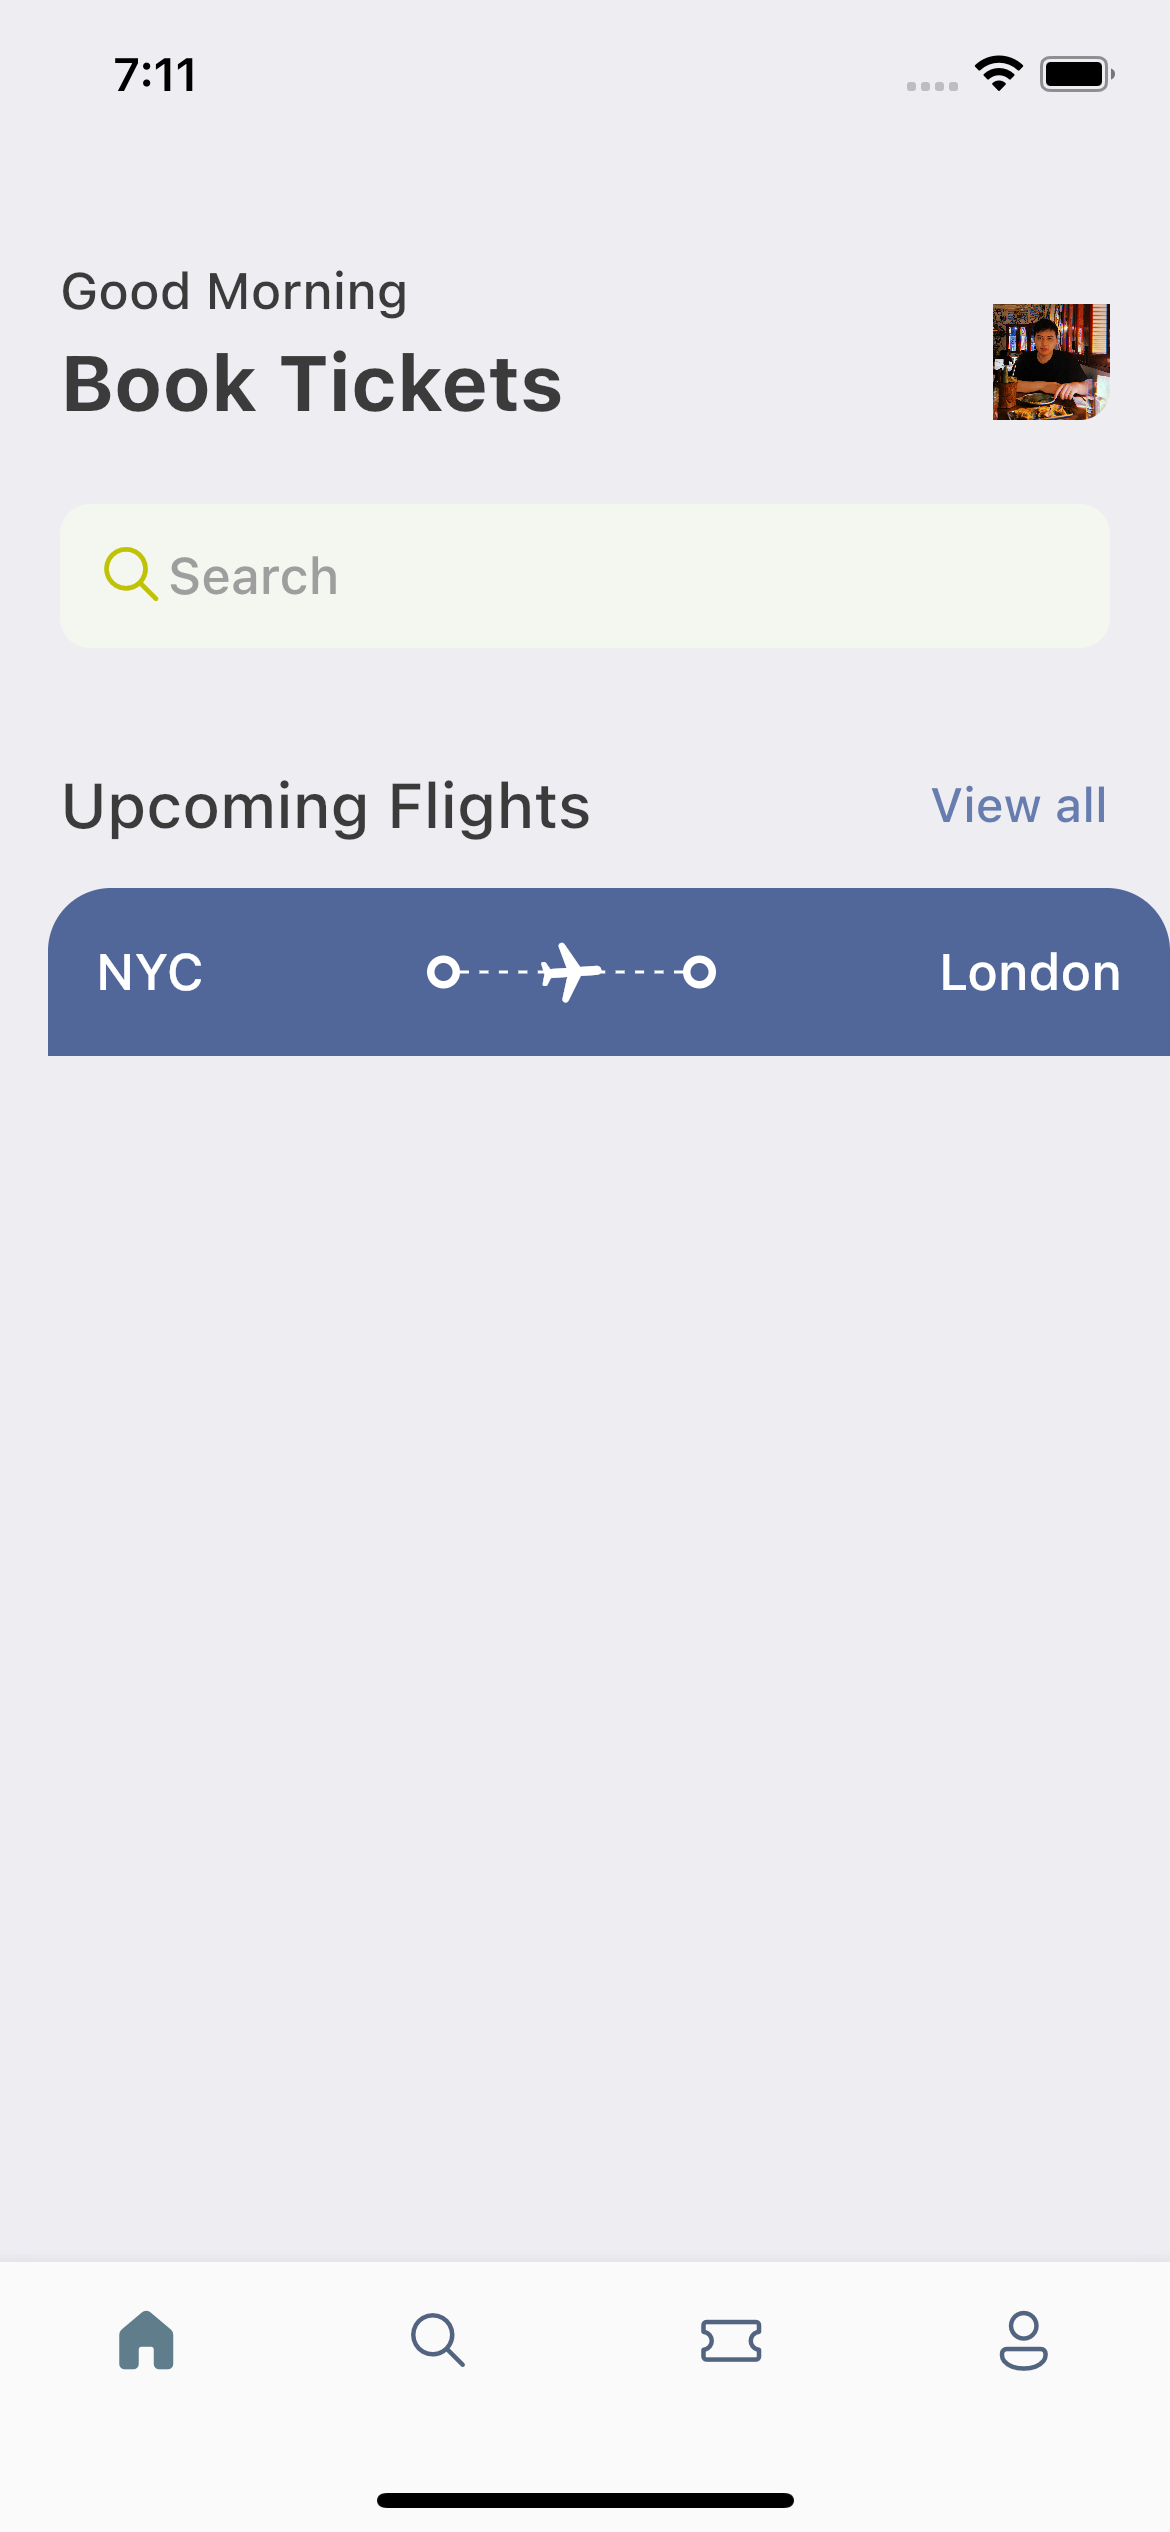
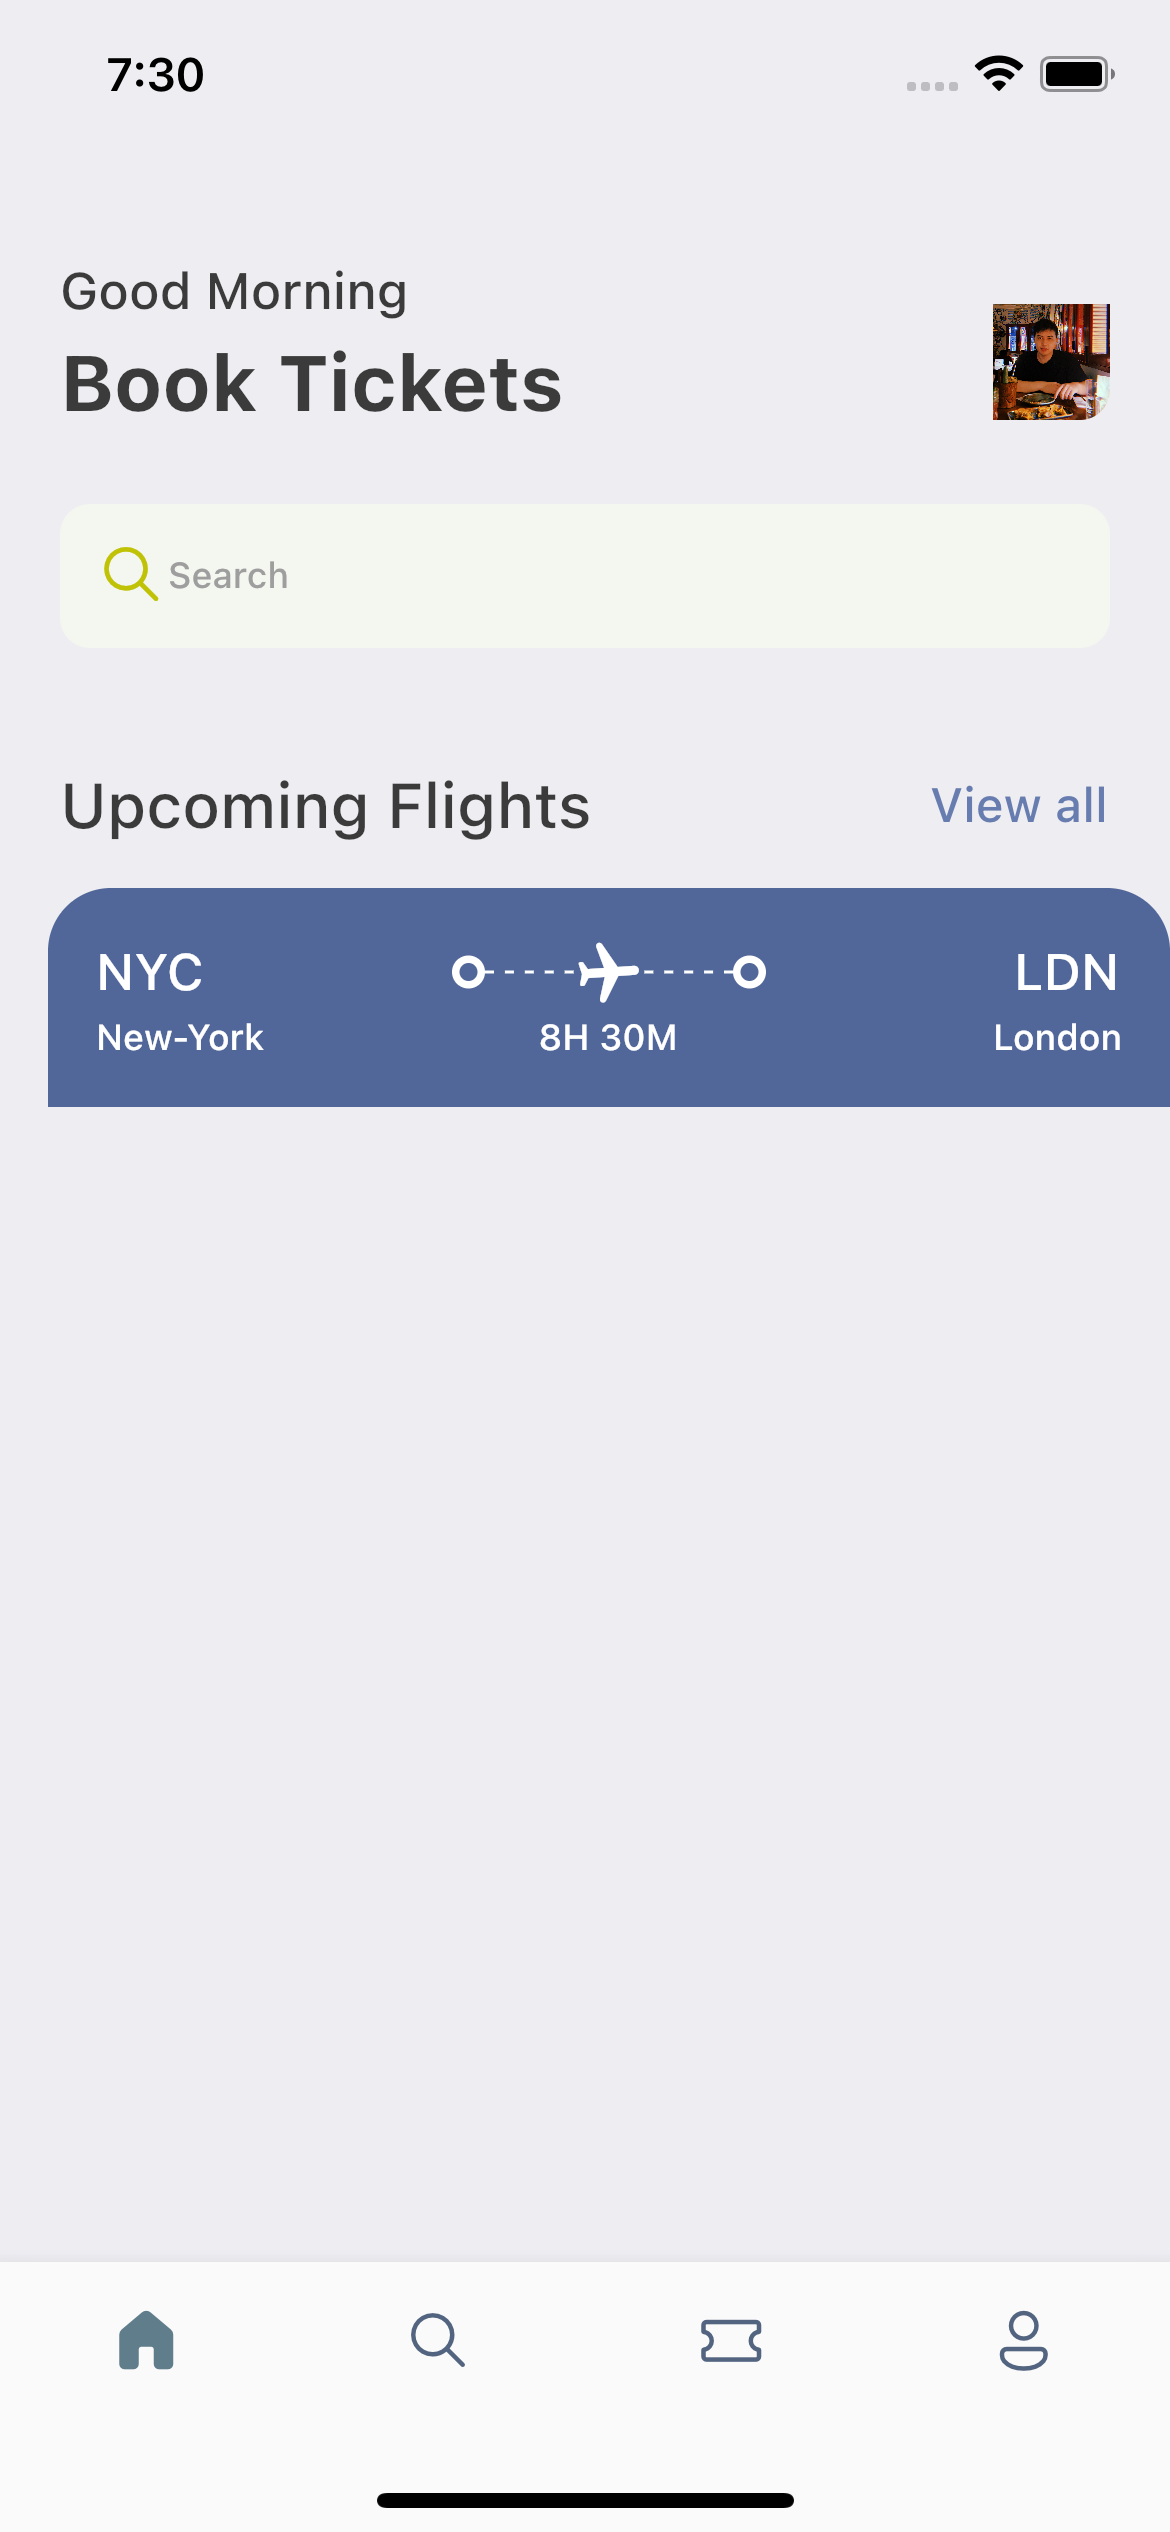
Update picture

Changed region(s): [[0.0308, 0.3744, 1.0, 0.4368], [0.1538, 0.2184, 0.2769, 0.2496], [0.0923, 0.0, 0.1846, 0.0312]]

diff --git a/lib/screens/ticket_view.dart b/lib/screens/ticket_view.dart
@@ -2,6 +2,7 @@ import 'package:booktickets/utils/app_layout.dart';
 import 'package:booktickets/utils/app_styles.dart';
 import 'package:booktickets/wigdets/thick_container.dart';
 import 'package:flutter/material.dart';
+import 'package:gap/gap.dart';
 
 class TicketView extends StatelessWidget {
   const TicketView({Key? key}) : super(key: key);
@@ -16,6 +17,9 @@ class TicketView extends StatelessWidget {
         margin: const EdgeInsets.only(left: 16),
         child: Column(
           children: [
+            /*
+            Blue part
+             */
             Container(
               decoration: const BoxDecoration(
                   color: Color(0xFF526799),
@@ -71,13 +75,39 @@ class TicketView extends StatelessWidget {
                       ThickContainer(),
                       const Spacer(),
                       Text(
-                        "London",
+                        "LDN",
                         style:
                             Styles.headLineStyle3.copyWith(color: Colors.white),
                       )
                     ],
+                  ),
+                  const Gap(3),
+                  Row(
+                    mainAxisAlignment: MainAxisAlignment.spaceBetween,
+                    children: [
+                      SizedBox(
+                        width: 100,
+                        child: Text("New-York",
+                            style: Styles.headLineStyle4
+                                .copyWith(color: Colors.white)),
+                      ),
+                      Text("8H 30M",
+                          style: Styles.headLineStyle4
+                              .copyWith(color: Colors.white)),
+                        SizedBox(
+                        width: 100,
+                        child: Text("London",
+                        textAlign: TextAlign.end,
+                        style: Styles.headLineStyle4
+                            .copyWith(color: Colors.white)),)
+                    ],
                   )
                 ],
+              ),
+            ),
+            Container(
+              child: Row (
+
               ),
             )
           ],

diff --git a/lib/utils/app_styles.dart b/lib/utils/app_styles.dart
@@ -11,6 +11,6 @@ class Styles {
   static TextStyle headLineStyle1 = TextStyle(fontSize: 26, color: textColor, fontWeight: FontWeight.bold);
   static TextStyle headLineStyle2 = TextStyle(fontSize: 21, color: textColor, fontWeight: FontWeight.w500);
   static TextStyle headLineStyle3 = TextStyle(fontSize: 17, color: textColor, fontWeight: FontWeight.w500);
-  static TextStyle headLineStyle4 = TextStyle(fontSize: 17, color: Colors.grey.shade500, fontWeight: FontWeight.w500);
+  static TextStyle headLineStyle4 = TextStyle(fontSize: 12, color: Colors.grey.shade500, fontWeight: FontWeight.w500);
 
 }
